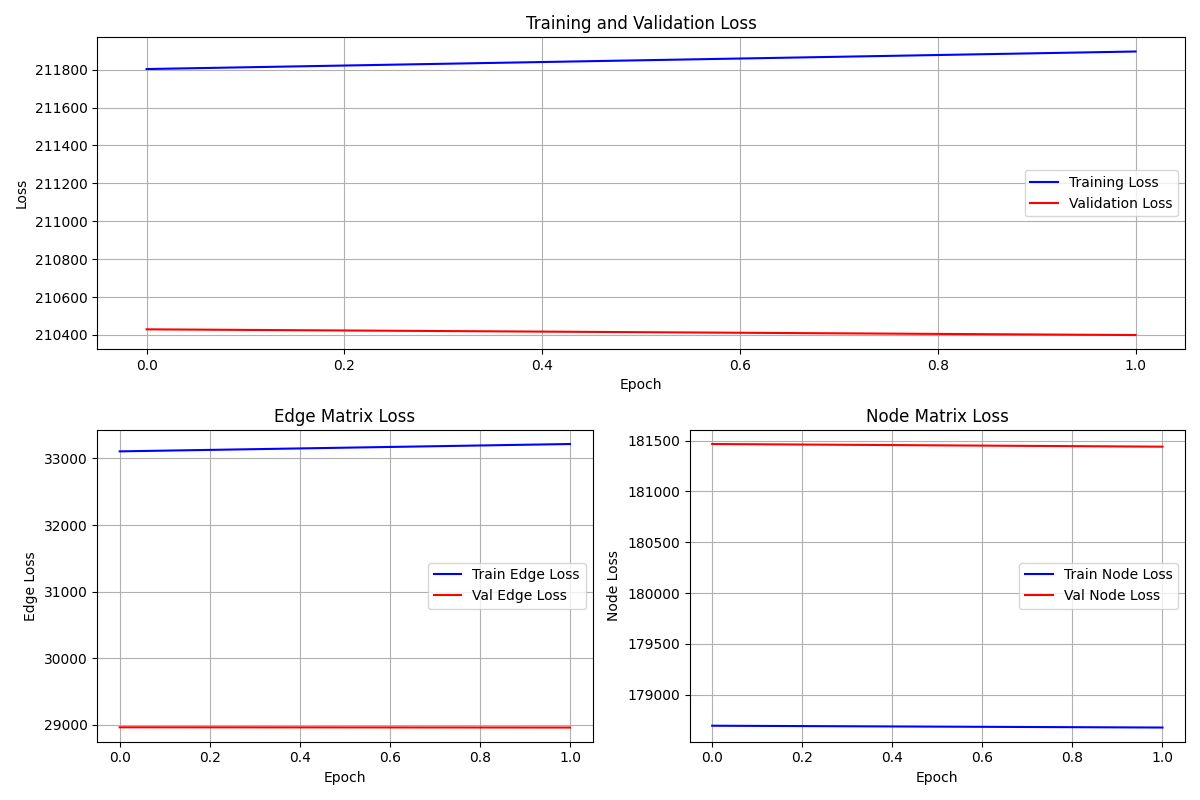
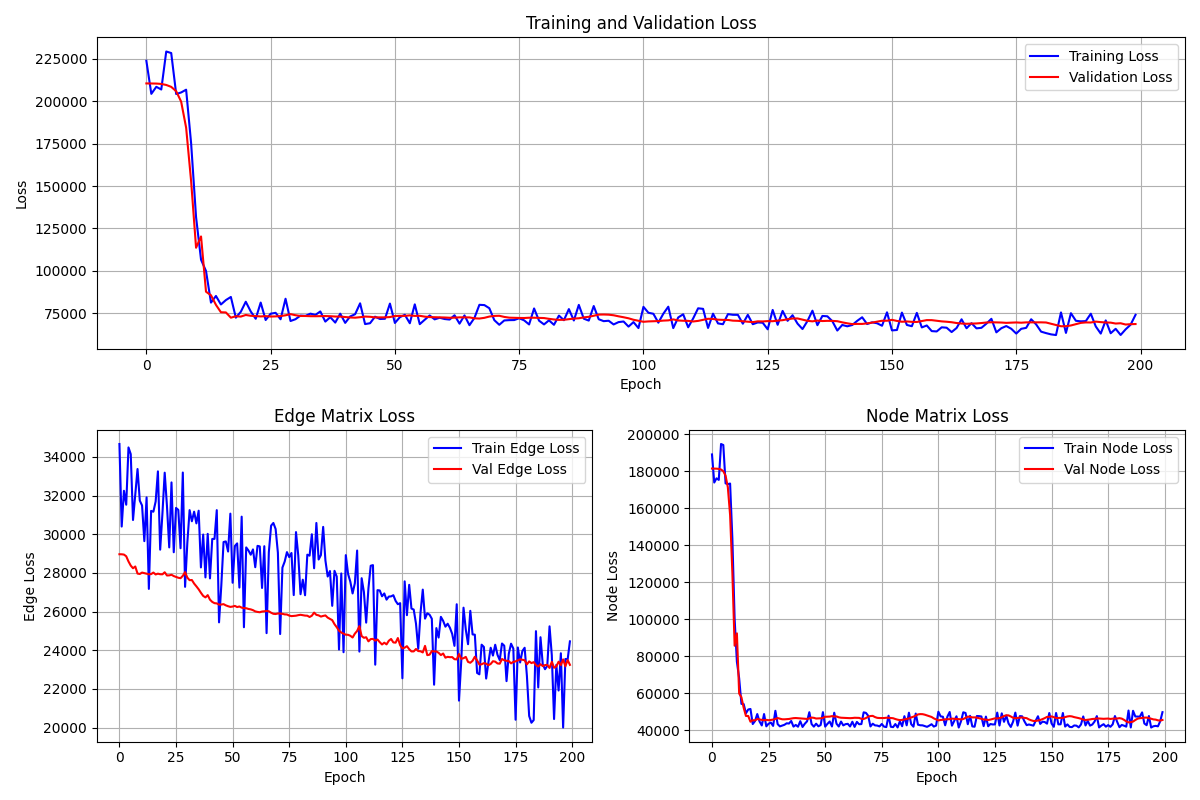
Model trained 200 epochs

diff --git a/src/hforge/model_shell.py b/src/hforge/model_shell.py
@@ -126,7 +126,6 @@ class ModelShell(torch.nn.Module):
         atomic_env_descriptor=self.atomic_descriptors(
             graph_data=graph_data,
             embeddings=embeddings,
-
         )
         # print("##! descriptor ##")
         #pretty_print_dict(atomic_env_descriptor)
@@ -240,7 +239,7 @@ class EmbeddingBase(torch.nn.Module):
 
                 },
                 "edges":{
-                    "radial_embedding":radial_embedding, #atomic numbers here is abit of uncertenty
+                    "radial_embedding":radial_embedding, #atomic numbers here is a bit of uncertenty
                     "angular_embedding":angular_embedding,
                 }
             }

diff --git a/examples/training_loop.py b/examples/training_loop.py
@@ -477,7 +477,7 @@ def main():
     )
 
     # Train the model
-    num_epochs = 2
+    num_epochs = 200
     save_path = os.path.abspath("./results/best_model.pt")
 
     model, history = trainer.train(num_epochs, save_path)
